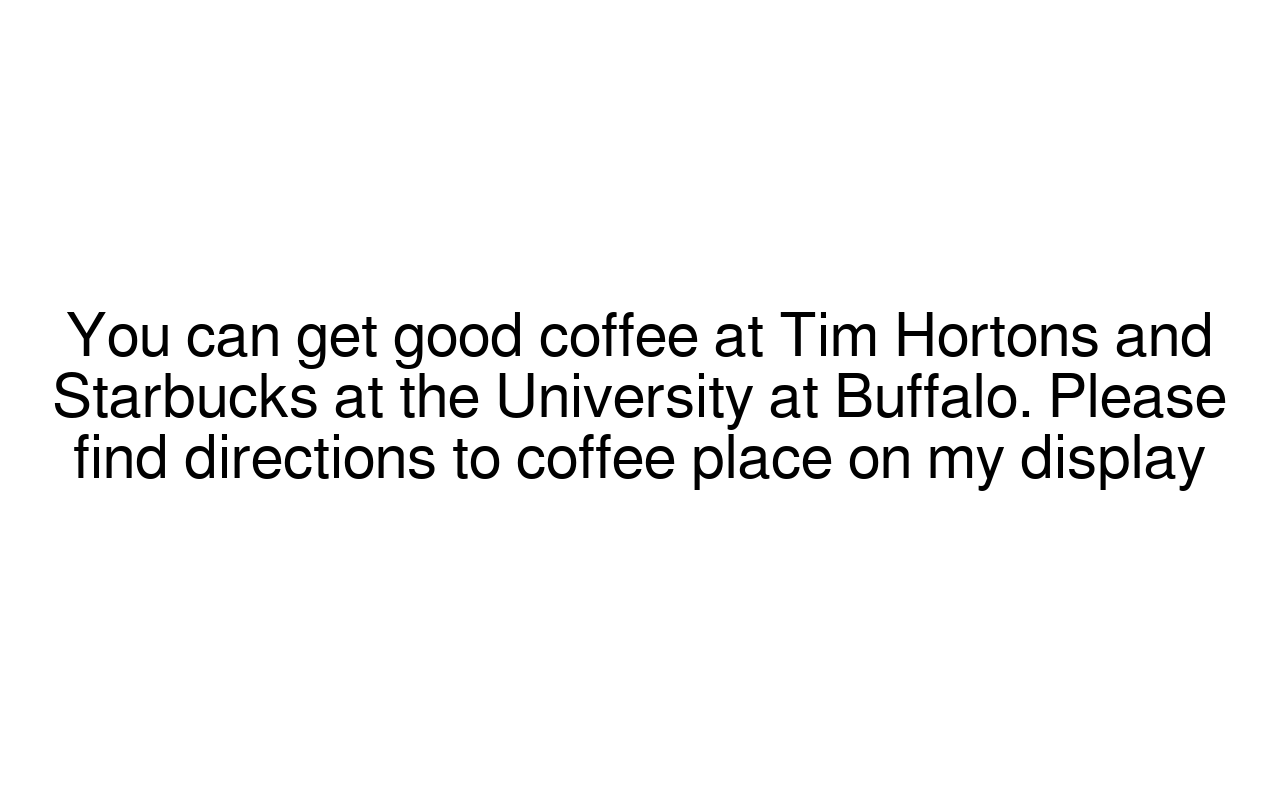
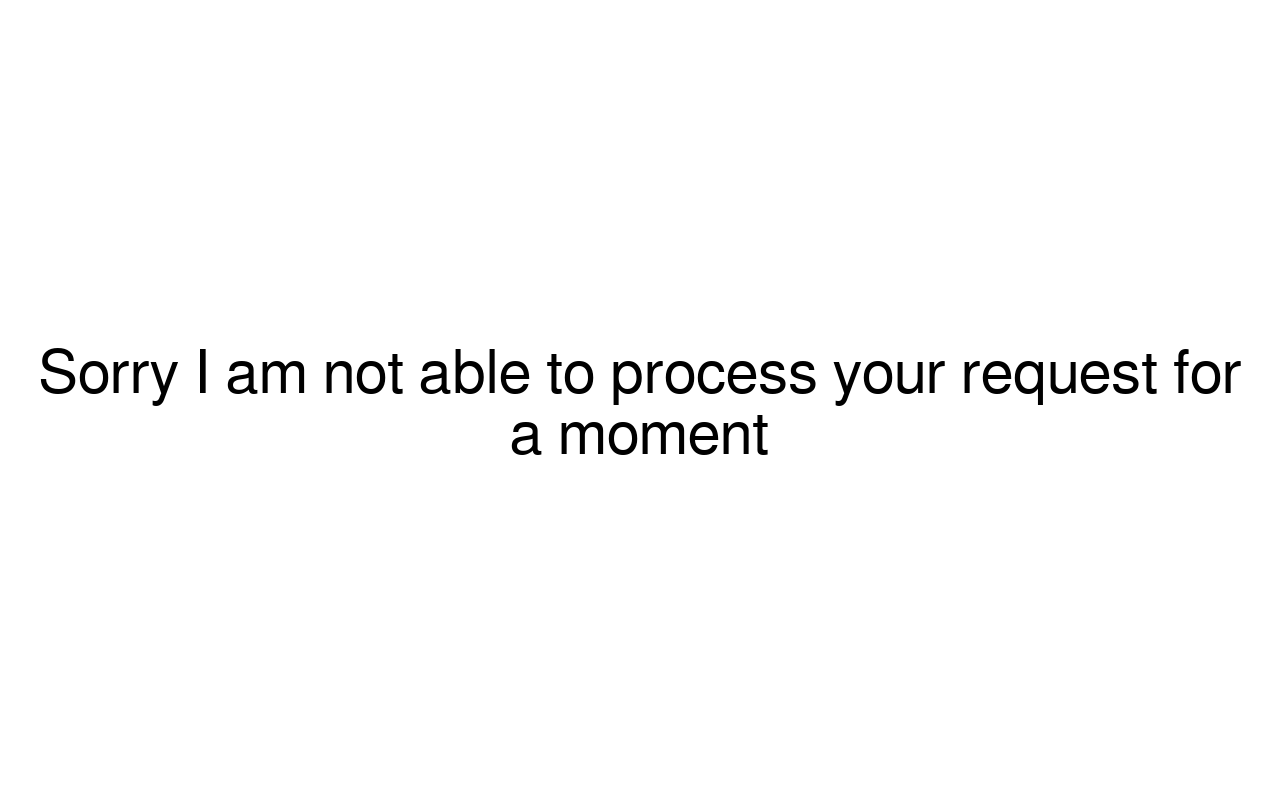
llm integration complete

Changed region(s): [[0.0312, 0.375, 0.9688, 0.625]]

diff --git a/python2/main.py b/python2/main.py
@@ -39,11 +39,19 @@ try:
             
             start_time = time.time()
             try:
-                response = requests.post(MAIN_API, data= {'user': AUDIO_AUTH_USER , 'audio_auth' : AUDIO_AUTH }  ,  files={'audio': open(audio_path, 'rb')  })
+                response = requests.post(MAIN_API, data= {'user': AUDIO_AUTH_USER , 'audio_auth' : AUDIO_AUTH, 'response_method' : RESPONSE }  ,  files={'audio': open(audio_path, 'rb')  })
                 if response.status_code == 200:
-                        out = response.json()
-                        for key, value in out.items():
-                            print ( '{}\t : \t {}'.format(key, value) )
+                        if RESPONSE == "chatGPT":
+                            out = response.json()
+                            for key, value in out.items():
+                                print ( '{}\t : \t {}'.format(key, value) )
+                        else:
+                            out = response.json()
+                            text = out['arg']
+                            out['arg']  = text.encode('utf-8')
+                            for key, value in out.items():
+                                print ( '{}\t : \t {}'.format(key, value) )
+                            
             except:
                 print("Server Down")
             end_time = time.time()

diff --git a/python2/helper.py b/python2/helper.py
@@ -26,7 +26,8 @@ MAIN_API =                 param["main_authen_api"].replace("PORT", str(trail_po
 TRANSCRIBE_API =           param["transcribe_api"].replace("PORT", str(trail_port))
 FACE_RECOG_API =           param["face_recog_api"].replace("PORT", str(trail_port))
 
-
+RESPONSE =                 param["response"]
+LLM_URL =                  param["llm_url"]
 
 # Record Audio ---------------------------------------------------------------------------
 
@@ -271,6 +272,7 @@ class Touch_interrupts(object):
 # Response code 
 
 import json
+import re 
 
 def nao_do(result):
     
@@ -285,8 +287,9 @@ def nao_do(result):
         nao.ledStopListening()
 
     elif result["func"] == "chat":
+        
         try:
-            nao.Response(  str(result["Request"]), str(result["arg"])   )    
+            nao.Response(  str(result["Request"]), str(result["arg"]) ,  RESPONSE , LLM_URL )    
         except:
             nao.sayText( "Sorry I am not able to process your request for a moment" )
         nao.posture.goToPosture("Stand" , 0.4)

diff --git a/python2/drivers/tts.py b/python2/drivers/tts.py
@@ -228,10 +228,13 @@ class tts(base):
         #time.sleep(4)
         self.atts.say(text)
     
-    def Response(self, inp , out):
-        text =  " Question: " + inp + "\n\n Response : " +  out
-        url = self.give_url( text)
-        self.url = str(url)
+    def Response(self, inp , out, llm_method, LLM_URL):
+        if llm_method == "chatGPT":
+            text =  " Question: " + inp + "\n\n Response : " +  out
+            url = self.give_url( text)
+            self.url = str(url)
+        elif llm_method == "LLM":
+            self.url = str(LLM_URL)
 
         # print("Cloudinary time : " , time.time() - t)
 
